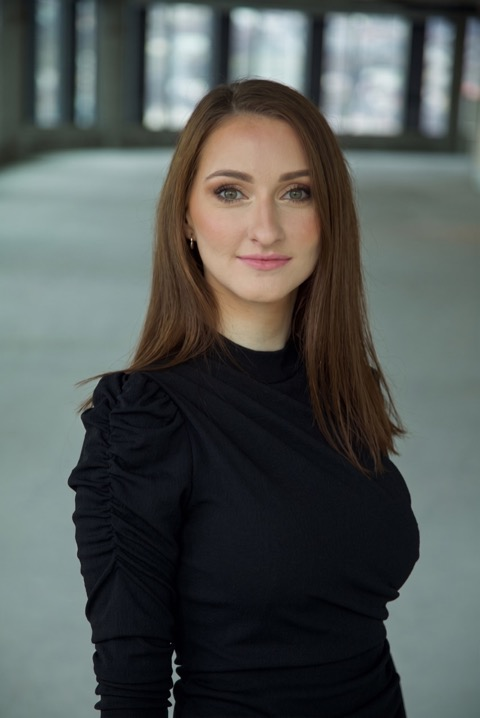
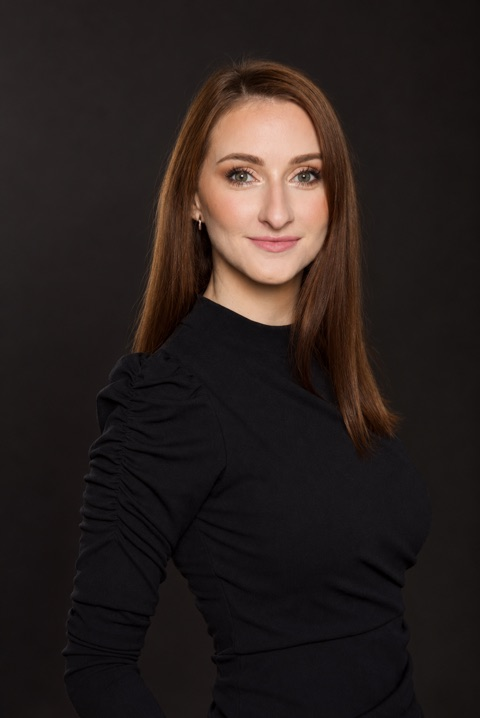
Contact founder card: Jana's portrait on the dark backdrop
Claude-Session: https://claude.ai/code/session_01J7bGSybXXXJYBgpBbHQSzp

diff --git a/kontakt/index.html b/kontakt/index.html
@@ -328,7 +328,7 @@
 <div class="h-24 w-20 shrink-0 overflow-hidden rounded-btn">
 <picture>
 <source type="image/avif" srcset="/assets/photos/contact-480.avif 480w, /assets/photos/contact.avif 800w" sizes="80px"/>
-<img src="/assets/photos/contact-480.jpg" srcset="/assets/photos/contact-480.jpg 480w, /assets/photos/contact.jpg 800w" sizes="80px" alt="Mgr. Jana Králusová – kontaktný portrét" width="800" height="1199" loading="lazy" decoding="async" class="h-full w-full object-cover" style="object-position: center 20%;"/>
+<img src="/assets/photos/contact-480.jpg" srcset="/assets/photos/contact-480.jpg 480w, /assets/photos/contact.jpg 800w" sizes="80px" alt="Mgr. Jana Králusová – kontaktný portrét" width="800" height="1198" loading="lazy" decoding="async" class="h-full w-full object-cover" style="object-position: center 20%;"/>
 </picture>
 </div>
 <div>

diff --git a/en/contact/index.html b/en/contact/index.html
@@ -326,7 +326,7 @@
 <div class="h-24 w-20 shrink-0 overflow-hidden rounded-btn">
 <picture>
 <source type="image/avif" srcset="/assets/photos/contact-480.avif 480w, /assets/photos/contact.avif 800w" sizes="80px"/>
-<img src="/assets/photos/contact-480.jpg" srcset="/assets/photos/contact-480.jpg 480w, /assets/photos/contact.jpg 800w" sizes="80px" alt="Mgr. Jana Králusová – contact portrait" width="800" height="1199" loading="lazy" decoding="async" class="h-full w-full object-cover" style="object-position: center 20%;"/>
+<img src="/assets/photos/contact-480.jpg" srcset="/assets/photos/contact-480.jpg 480w, /assets/photos/contact.jpg 800w" sizes="80px" alt="Mgr. Jana Králusová – contact portrait" width="800" height="1198" loading="lazy" decoding="async" class="h-full w-full object-cover" style="object-position: center 20%;"/>
 </picture>
 </div>
 <div>
